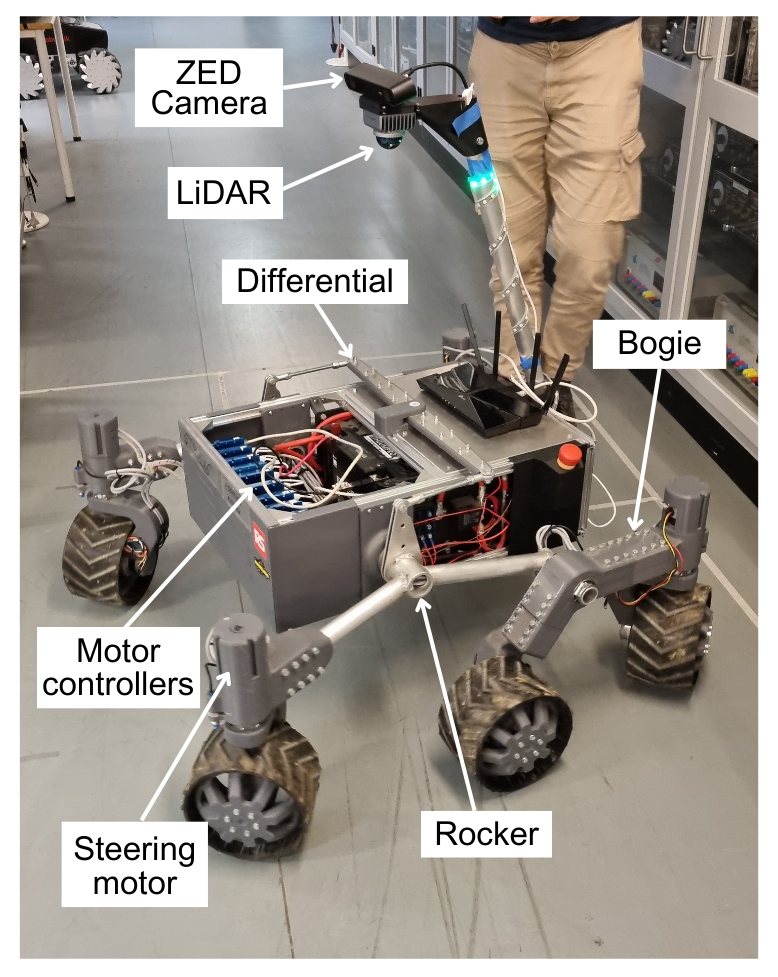
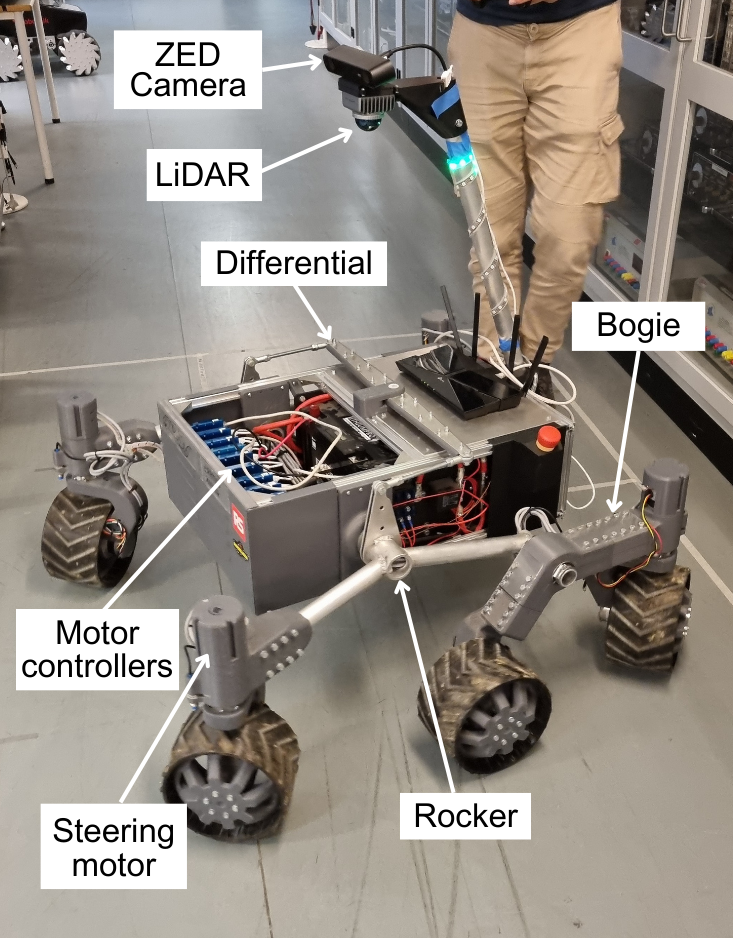
finished mars rover section

diff --git a/project-detail.html b/project-detail.html
@@ -125,30 +125,21 @@
             .project-detail-content img { max-width: 100%; height: auto; border-radius: 8px; margin: 20px 0; box-shadow: 0 2px 8px rgba(0, 0, 0, 0.15); border: 1px solid var(--border-color); }
 
             /* --- Improved List Styling --- */
-
-            ul, ol {
+            .project-detail-content ul, .project-detail-content ol {
                 margin-top: 1rem;
-                margin-bottom: 1.5rem;
+                margin-bottom: 1.75rem;
                 padding-left: 1.75rem; /* Proper indentation */
+                font-size: 18px; /* Match paragraph font size */
+                line-height: 1.75; /* Match paragraph line height */
             }
-
-            li {
-                font-size: 1rem;
-                color: #374151;
+            .project-detail-content li {
+                color: var(--secondary-text-color);
                 margin-bottom: 0.75rem; /* Adds breathing room between items */
-                line-height: 1.6; /* Improves readability */
             }
-
-            ul {
-                list-style-type: disc;
-            }
-
-            ol {
-                list-style-type: decimal;
-            }
-            
-            li::marker {
-                color: #003a6c; /* Match the marker color to the heading */
+            .project-detail-content ul { list-style-type: disc; }
+            .project-detail-content ol { list-style-type: decimal; }
+            .project-detail-content li::marker {
+                color: var(--accent-color); /* Match the marker color to the theme */
                 font-weight: 500;
             }
 
@@ -203,6 +194,71 @@
                     gap: 16px;
                 }
             }
+
+            /* --- Pipeline Diagram Styles --- */
+            .pipeline-grid {
+                display: grid;
+                grid-template-columns: 1fr 1fr; /* Creates the 2-column layout */
+                gap: 24px; /* Matches your .two-images-row gap */
+                margin: 20px 0 1.5rem 0;
+            }
+
+            /* This styles the FontAwesome arrow to act as a flow connector */
+            .pipeline-flow-arrow {
+                display: flex;
+                justify-content: center;
+                align-items: center;
+                margin: 1rem 0;
+                color: var(--accent-color);
+                font-size: 2rem;
+            }
+
+            .pipeline-output-figure {
+                max-width: 400px;
+                width: 100%;
+                margin: 0 auto 1.75rem auto;
+            }
+            
+            /* --- Vertical Image Fix --- */
+            #rover-hardware-figure {
+                /* Constrain vertical image size */
+                max-width: 450px;  /* Adjust as needed */
+                width: 100%;
+                margin: 20px auto 3.8rem auto;
+                max-height: 500px; /* Set max-height on the FIGURE */
+                overflow: visible; /* Clip the image inside */
+            }
+            #rover-hardware-figure img {
+                object-fit: contain; /* Ensures the whole image is visible */
+                width: auto;
+                height: auto;
+                max-height: 450px; /* Match the figure's max-height */
+                border: none; /* Removed border */
+                box-shadow: none; /* Removed box-shadow */
+            }
+
+
+            /* --- Responsive adjustments for Pipeline & Vertical Image --- */
+            @media (max-width: 600px) {
+                .pipeline-grid {
+                    grid-template-columns: 1fr; /* Stack to 1 column on small screens */
+                    gap: 32px; /* Add more vertical space when stacked */
+                }
+
+                /* Rotate the arrow to point down when stacked */
+                .pipeline-flow-arrow {
+                    transform: rotate(90deg);
+                    margin: 2rem 0;
+                }
+                
+                #rover-hardware-figure {
+                    max-height: 400px; /* Allow a bit less height on mobile */
+                }
+                #rover-hardware-figure img {
+                    max-height: 400px;
+                }
+            }
+
 
         </style>
     </head>
@@ -327,7 +383,7 @@
                     category: 'Robotics',
                     description: "Developed a robust mapping, navigation, and high-level motion planning control system for the Mars rover.",
                     tags: ['Robotics', 'ROS', 'SLAM', 'Navigation', 'Path Planning', 'Sensor Fusion'],
-                    image: 'images/mars-rover/mars-rover-cover.png', // ADD YOUR IMAGE PATH
+                    image: 'images/mars-rover/mars-rover-cover.png', 
                     date: 'JAN 19, 2025',
                     keyInfo: {
                             role: "Semester Project",
@@ -343,12 +399,12 @@
                             
                             <figure class="bdd100k-image" id="rover-hardware-figure">
                                 <img src="images/mars-rover/rover-hardware.png" alt="Rover hardware and sensor components">
-                                <figcaption>The rover's hardware platform, highlighting key components: the ZED stereo camera, LiDAR, and onboard compute unit.</figcaption>
+                                <figcaption>Overview of the Mars Rover setup, highlighting key components: the ZED stereo camera, motor controllers, and the differential drive system.</figcaption>
                             </figure>
 
                             <figure class="bdd100k-image">
                                 <img src="images/mars-rover/system_diagram.png" alt="Rover System Architecture Diagram">
-                                <figcaption>The system architecture: The ZED camera feeds RTAB-Map for 3D SLAM. Our custom Traversability node subscribes to the 2.5D elevation map and converts it to a 2D costmap, which Nav2 uses for path planning.</figcaption>
+                                <figcaption>The system architecture diagram: The ZED camera feeds RTAB-Map for 3D SLAM. Our custom Traversability node subscribes to the 2.5D elevation map and converts it to a 2D occupancy grid, which Nav2 uses for path planning.</figcaption>
                             </figure>
 
                             <h4>The Bridge: Traversability Mapping</h4>
@@ -358,16 +414,62 @@
                                 <li><strong>Pre-process:</strong> Fills small gaps in the map data and applies a <strong>Gaussian filter</strong> to smooth out sensor noise from the ZED camera.</li>
                                 <li><strong>Calculate Steepness:</strong> Uses a <strong>finite difference approximation</strong> to calculate the gradient (slope) at every single point on the map.</li>
                                 <li><strong>Convert & Publish:</strong> Translates these steepness values (e.g., 0° to 45°) into a cost (0-100) and publishes it as an occupancy grid for Nav2 that converts it to costmap internally.</li>
-
                             </ol>
                             <p>The process detailed below effectively translates the 2.5D elevation map into a 2D costmap, enabling the planner to account for terrain steepness.</p>
                             
-                            <figure class="bdd100k-image">
-                                <img src="images/mars-rover/traversability-mapping.drawio.png" alt="Traversability mapping pipeline">
-                                <figcaption>The 6-step traversability pipeline, from the raw RTAB-Map output (a), gap-filling (b), and smoothing (c) to the final steepness visualization (d, e) and occupancy grid (f) sent to Nav2.</figcaption>
+                            <!-- START: NATIVE TRAVERSABILITY PIPELINE -->
+
+                            <!-- Stage 1: Input (Using .two-images-row style) -->
+                            <div class="two-images-row">
+                                <figure class="bdd100k-image">
+                                    <img src="images/mars-rover/rtabmap_pointcloud.png" alt="3D Pointcloud from RTABMap">
+                                    <figcaption><strong>Input A:</strong> 3D Pointcloud map (For Visualization)</figcaption>
+                                </figure>
+                                <figure class="bdd100k-image">
+                                    <img src="images/mars-rover/cropped_steepness_mapping_elevation.png" alt="2.5D Elevation Map from RTABMap">
+                                    <figcaption><strong>Input B: (a)</strong> 2.5D Elevation map (Pipeline Input)</figcaption>
+                                </figure>
+                            </div>
+
+                            <!-- Flow Arrow -->
+                            <div class="pipeline-flow-arrow">
+                                <i class="fa-solid fa-arrow-down"></i>
+                            </div>
+
+                            <!-- Stage 2: Processing (Using .pipeline-grid style) -->
+                            <div class="pipeline-grid">
+                                <figure class="bdd100k-image">
+                                    <img src="images/mars-rover/cropped_steepness_mapping_filled_elevation.png" alt="Gap-filled map">
+                                    <figcaption><strong>(b)</strong> The Elevation map after filling small gaps</figcaption>
+                                </figure>
+                                <figure class="bdd100k-image">
+                                    <img src="images/mars-rover/cropped_steepness_mapping_smoothed_elevation.png" alt="Smoothed map">
+                                    <figcaption><strong>(c)</strong> The filled Elevation map after smoothing</figcaption>
+                                </figure>
+                                <figure class="bdd100k-image">
+                                    <img src="images/mars-rover/cropped_steepness_mapping_steepness.png" alt="Steepness gradient plot">
+                                    <figcaption><strong>(d)</strong> The Steepness Gradient plot (Steepness as Height)</figcaption>
+                                </figure>
+                                <figure class="bdd100k-image">
+                                    <img src="images/mars-rover/cropped_steepness_mapping_steepness_color_smoothed_height.png" alt="Steepness-colored terrain">
+                                    <figcaption><strong>(e)</strong> Steepness-colored terrain (Steepness as Color)</figcaption>
+                                </figure>
+                            </div>
+
+                            <!-- Flow Arrow -->
+                            <div class="pipeline-flow-arrow">
+                                <i class="fa-solid fa-arrow-down"></i>
+                            </div>
+
+                            <!-- Stage 3: Output -->
+                             <figure class="bdd100k-image pipeline-output-figure">
+                                <img src="images/mars-rover/cropped_steepness_mapping_steepness_occupancy_grid.png" alt="Final 2D Costmap">
+                                <figcaption><strong>(f)</strong> Final 2D Occupancy grid (Published to Nav2)</figcaption>
                             </figure>
 
-                            The Nav2 planner computes the optimal path using Dijkstra's algorithm. This path is then fed to a controller, which calculates the appropriate steering and speed commands for the rover's motor controllers.
+                            <!-- END: NATIVE TRAVERSABILITY PIPELINE -->
+
+                            <p>Utilizing Dijkstra's algorithm, the Nav2 planning module generates an optimal path from this costmap. This path is subsequently processed by the controller, which computes and publishes the necessary steering and speed commands to the rover's wheel motor controllers.</p>
 
                             <h4>Impact & Results</h4>
                             <p>We conducted three main tests to validate our system:</p>
